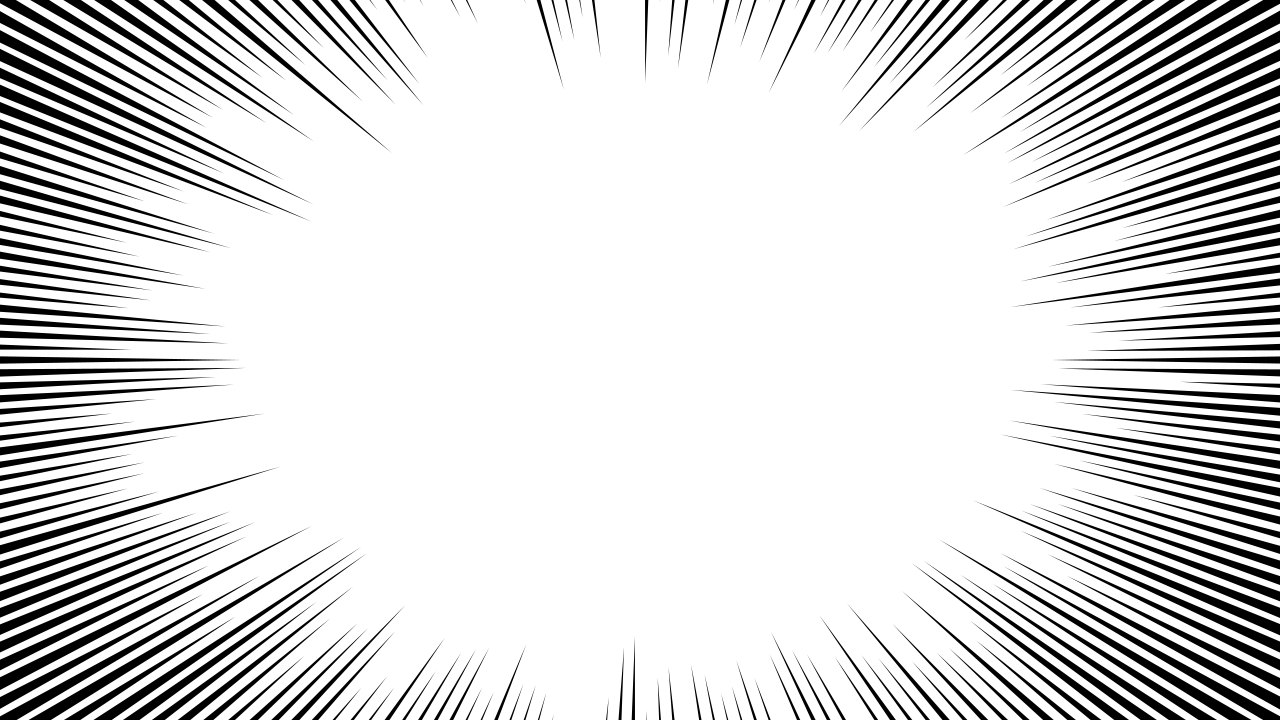
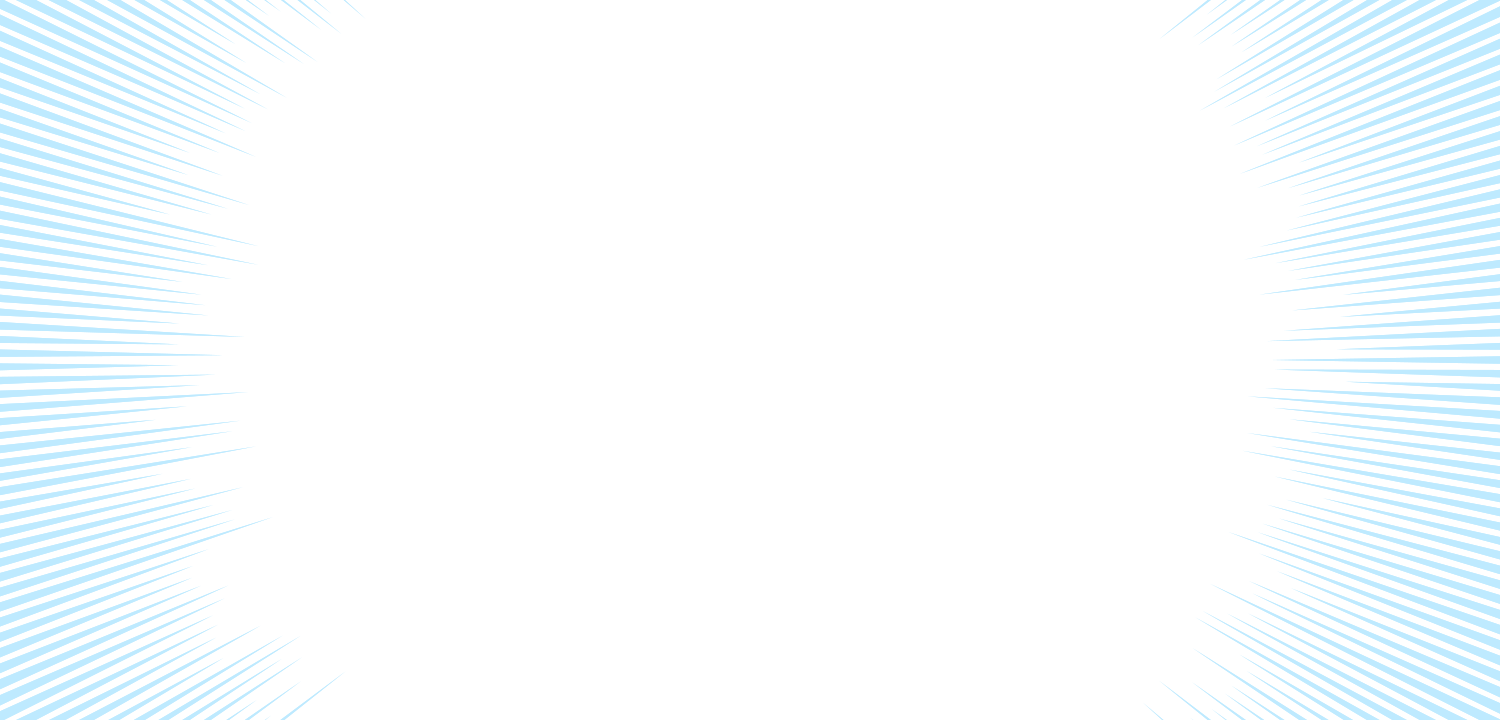
集中線の追加

diff --git a/DirectXGame/ConcentrationLine.cpp b/DirectXGame/ConcentrationLine.cpp
@@ -9,8 +9,7 @@ void ConcentrationLine::Initialize(Model* model, uint32_t textureHandle) {
 	isDraw_ = true;
 
 	spriteParticle_ = std::make_unique<SpriteParticle>();
-	spriteParticle_->sprite = Sprite::Create(textureHandle_, {0, 0}, {1, 1, 1, 1}, {0.5f, 0.5f});
-	spriteParticle_->sprite->SetPosition({640, 360});
+	spriteParticle_->sprite = Sprite::Create(textureHandle_, {640, 360}, {1, 1, 1, 1}, {0.5, 0.5f});
 	spriteParticle_->activeTime = 0;
 	spriteParticle_->isActive = true;
 }
@@ -67,8 +66,9 @@ void ConcentrationLine::Update() {
 	}
 
 	if (spriteParticle_->isActive) {
-		Vector2 spritePos = spriteParticle_->sprite->GetPosition();
-		spritePos.x = static_cast<float>(rand() % 51 - 25);
+		Vector2 spritePos;
+		spritePos.x = 640 + static_cast<float>(rand() % 51 - 25);
+		spritePos.y = 360;
 		spriteParticle_->sprite->SetPosition(spritePos);
 	}
 
@@ -84,6 +84,6 @@ void ConcentrationLine::Draw(const ViewProjection& viewProjection) {
 
 void ConcentrationLine::Draw() {
 	if (spriteParticle_->isActive) {
-		BaseEffect::Draw();
+		spriteParticle_->sprite->Draw();
 	}
 }
